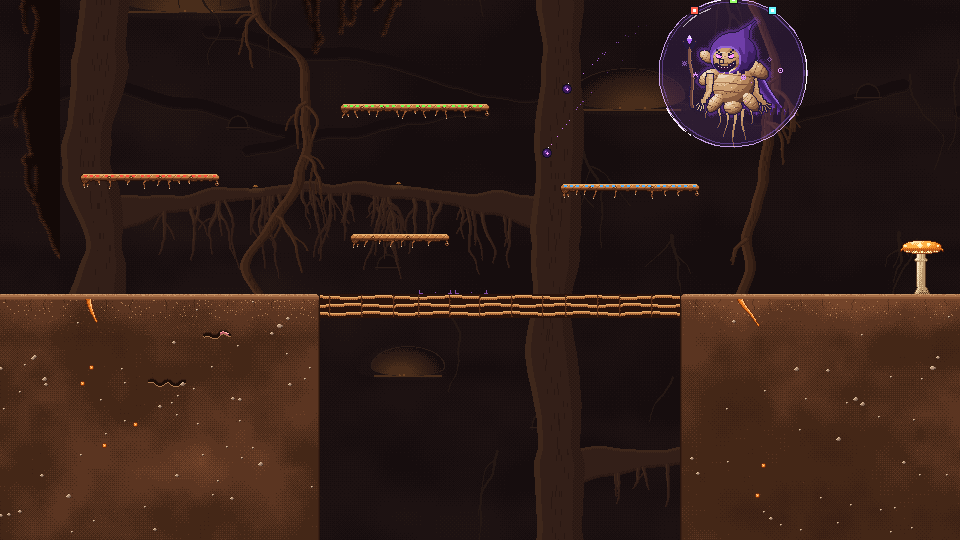
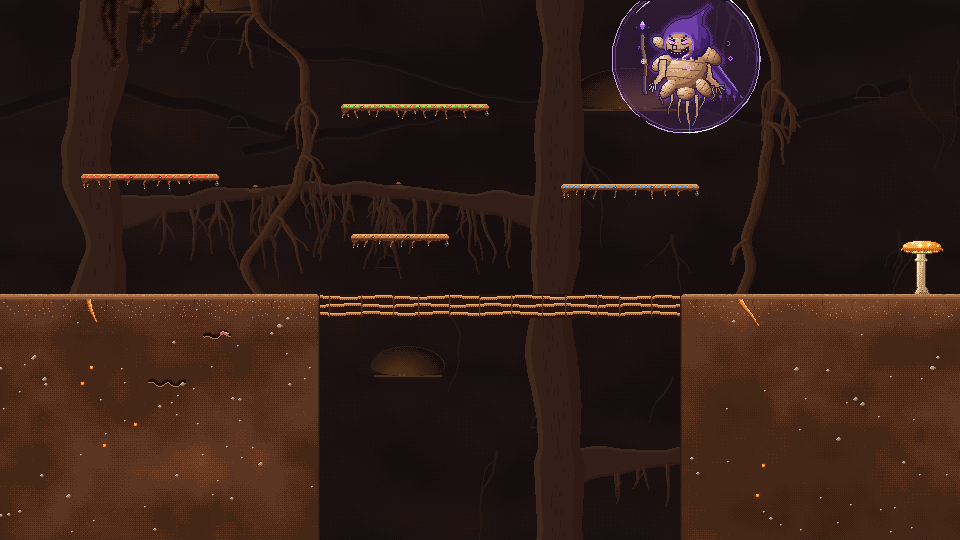
guitar-goblin: update iCarrot wiki (Merge orchestrator/wiki: publish the foreground wiki updates)

diff --git a/sections/guitar-goblin/icarrot-wiki/levels/level-parts.html b/sections/guitar-goblin/icarrot-wiki/levels/level-parts.html
@@ -74,7 +74,7 @@
 <p class="nav-extra"><a href="../tuning/index.html">Tuning files</a></p></nav>
 </aside>
 <main>
-<article><p class="crumbs"><a href="../index.html">Home</a> &rsaquo; <a href="../levels/index.html">Levels</a></p><h1>Level Parts</h1><aside class="infobox"><div class="infobox-title">Level Parts</div><dl><div><dt>Where</dt><dd><code>scripts/level_parts/</code></dd></div><div><dt>Edited in</dt><dd>The Godot 2D editor</dd></div><div><dt>Used by</dt><dd>Every level</dd></div></dl></aside><p class="lead">The building blocks every level is made of, placed and tuned in the Godot 2D editor. Ground, ledges, mushrooms, doors, pedestals, torches, camera shots, spawn markers and props.</p><nav class="toc" aria-label="Contents"><p>Contents</p><ol><li><a href="#how-levels-are-built">How levels are built</a></li><li><a href="#ground-and-platforms">Ground and platforms</a><ol><li><a href="#solid">Solid</a></li><li><a href="#plank">Plank</a></li><li><a href="#shroom">Shroom</a></li></ol></li><li><a href="#encounter-parts">Encounter parts</a><ol><li><a href="#door">Door</a></li><li><a href="#pedestal">Pedestal</a></li><li><a href="#torch">Torch</a></li></ol></li><li><a href="#camera-and-spawns">Camera and spawns</a><ol><li><a href="#camerazone">CameraZone</a></li><li><a href="#spawnpoint">SpawnPoint</a></li></ol></li><li><a href="#decoration">Decoration</a><ol><li><a href="#prop">Prop</a></li></ol></li><li><a href="#tunable-parameters">Tunable parameters</a><ol><li><a href="#solid_1">Solid</a></li><li><a href="#plank_1">Plank</a></li><li><a href="#shroom_1">Shroom</a></li><li><a href="#door_1">Door</a></li><li><a href="#pedestal_1">Pedestal</a></li><li><a href="#torch_1">Torch</a></li><li><a href="#camerazone_1">CameraZone</a></li><li><a href="#spawnpoint_1">SpawnPoint</a></li><li><a href="#prop_1">Prop</a></li></ol></li></ol></nav><h2 id="how-levels-are-built">How levels are built</h2>
+<article><p class="crumbs"><a href="../index.html">Home</a> &rsaquo; <a href="../levels/index.html">Levels</a></p><h1>Level Parts</h1><aside class="infobox"><div class="infobox-title">Level Parts</div><dl><div><dt>Where</dt><dd><code>scripts/level_parts/</code></dd></div><div><dt>Edited in</dt><dd>The Godot 2D editor</dd></div><div><dt>Used by</dt><dd>Every level</dd></div></dl></aside><p class="lead">The building blocks every level is made of, placed and tuned in the Godot 2D editor. Ground, ledges, mushrooms, doors, pedestals, torches, camera shots, spawn markers and props.</p><nav class="toc" aria-label="Contents"><p>Contents</p><ol><li><a href="#how-levels-are-built">How levels are built</a></li><li><a href="#ground-and-platforms">Ground and platforms</a><ol><li><a href="#solid">Solid</a></li><li><a href="#plank">Plank</a></li><li><a href="#shroom">Shroom</a></li></ol></li><li><a href="#encounter-parts">Encounter parts</a><ol><li><a href="#door">Door</a></li><li><a href="#pedestal">Pedestal</a></li><li><a href="#torch">Torch</a></li></ol></li><li><a href="#camera-and-spawns">Camera and spawns</a><ol><li><a href="#camerazone">CameraZone</a></li><li><a href="#spawnpoint">SpawnPoint</a></li></ol></li><li><a href="#decoration">Decoration</a><ol><li><a href="#foregroundpiece">ForegroundPiece</a></li><li><a href="#prop">Prop</a></li></ol></li><li><a href="#tunable-parameters">Tunable parameters</a><ol><li><a href="#solid_1">Solid</a></li><li><a href="#plank_1">Plank</a></li><li><a href="#shroom_1">Shroom</a></li><li><a href="#door_1">Door</a></li><li><a href="#pedestal_1">Pedestal</a></li><li><a href="#torch_1">Torch</a></li><li><a href="#camerazone_1">CameraZone</a></li><li><a href="#spawnpoint_1">SpawnPoint</a></li><li><a href="#prop_1">Prop</a></li><li><a href="#foregroundpiece_1">ForegroundPiece</a></li></ol></li></ol></nav><h2 id="how-levels-are-built">How levels are built</h2>
 <p>A level is a scene the owner edits in Godot's 2D editor, built from the parts below. Collision, the
 enemies' route map and the art all come from these parts, so moving a ledge or resizing a block
 needs no code. Every part draws its own art in code, in the game's pixel style, so it can be any
@@ -85,6 +85,7 @@ background thread, so for the first few frames of a level they can show up blank
 <li><code>Geometry/</code>: Solid, Plank, Shroom, Door and Pedestal (everything you collide with).</li>
 <li><code>Cameras/</code>: CameraZone.</li>
 <li><code>Spawns/</code>: SpawnPoint.</li>
+<li><code>Foreground/</code>: ForegroundPiece.</li>
 <li>Anywhere: Torch and Prop, which are decoration only.</li>
 </ul>
 <h2 id="ground-and-platforms">Ground and platforms</h2>
@@ -132,6 +133,13 @@ frames its own carrot, so co-op players can be in different shots. Arenas and bo
 <li><strong>PERCH:</strong> a spot on a plank where perching enemies like the asparagus land.</li>
 </ul>
 <h2 id="decoration">Decoration</h2>
+<h3 id="foregroundpiece">ForegroundPiece</h3>
+<p>A blurred silhouette in front of everything, such as roots hanging from a ceiling or the edge of a
+wall, that slides a little faster than the world as the camera moves so it reads as close to the
+camera. It sits exactly where it's placed in the editor, and in game when the camera is centred on
+it. Elsewhere it drifts <code>depth</code> times the camera's distance from it, sideways by default. Pieces hung
+from a ceiling or set against a wall keep <code>depth.y</code> at 0, so they stay attached as the camera moves
+up and down. Each machine's pieces follow its own camera, so they look right for every co-op player.</p>
 <h3 id="prop">Prop</h3>
 <p>A decoration with no collision: a giant carrot, mushrooms on a wall, a fence. It can have a glow
 layer that blooms, and it can sway in the breeze around the point it grows from.</p>
@@ -181,7 +189,12 @@ layer that blooms, and it can sway in the breeze around the point it grows from.
 <h3 id="prop_1">Prop</h3>
 <p class="params-src">Edit <code>scripts/level_parts/prop.gd</code> (script defaults; a scene or resource may override them)</p>
 
-<div class="table-wrap"><table class="param-table"><thead><tr><th>Parameter</th><th>Value</th><th>Range</th><th>What it does</th></tr></thead><tbody><tr><td><code>glow</code></td><td class="val"><code></code></td><td class="rng"></td><td>White where the prop glows (same size as <code>texture</code>); leave empty for no glow.</td></tr><tr><td><code>glow_color</code></td><td class="val"><span class="swatch" style="background:#ffd27a"></span><code>#ffd27a</code></td><td class="rng"></td><td>The glow&#x27;s tint.</td></tr><tr><td><code>glow_intensity</code></td><td class="val">1.5</td><td class="rng">0 to 4</td><td>How bright the glow is (linear; above 1 blooms).</td></tr><tr><td><code>sway</code></td><td class="val">0</td><td class="rng">0 to 0.5</td><td>How far it leans each way in the breeze (a skew, in radians; 0 = still).</td></tr><tr><td><code>sway_speed</code></td><td class="val">0.5</td><td class="rng">0.05 to 4</td><td>Sways per second.</td></tr><tr><td><code>sway_phase</code></td><td class="val">0</td><td class="rng">0 to 1</td><td>Shifts its sway in time, so neighbouring props don&#x27;t sway in step.</td></tr></tbody></table></div></article>
+<div class="table-wrap"><table class="param-table"><thead><tr><th>Parameter</th><th>Value</th><th>Range</th><th>What it does</th></tr></thead><tbody><tr><td><code>glow</code></td><td class="val"><code></code></td><td class="rng"></td><td>White where the prop glows (same size as <code>texture</code>); leave empty for no glow.</td></tr><tr><td><code>glow_color</code></td><td class="val"><span class="swatch" style="background:#ffd27a"></span><code>#ffd27a</code></td><td class="rng"></td><td>The glow&#x27;s tint.</td></tr><tr><td><code>glow_intensity</code></td><td class="val">1.5</td><td class="rng">0 to 4</td><td>How bright the glow is (linear; above 1 blooms).</td></tr><tr><td><code>sway</code></td><td class="val">0</td><td class="rng">0 to 0.5</td><td>How far it leans each way in the breeze (a skew, in radians; 0 = still).</td></tr><tr><td><code>sway_speed</code></td><td class="val">0.5</td><td class="rng">0.05 to 4</td><td>Sways per second.</td></tr><tr><td><code>sway_phase</code></td><td class="val">0</td><td class="rng">0 to 1</td><td>Shifts its sway in time, so neighbouring props don&#x27;t sway in step.</td></tr></tbody></table></div>
+
+<h3 id="foregroundpiece_1">ForegroundPiece</h3>
+<p class="params-src">Edit <code>scripts/level_parts/foreground_piece.gd</code> (script defaults; a scene or resource may override them)</p>
+
+<div class="table-wrap"><table class="param-table"><thead><tr><th>Parameter</th><th>Value</th><th>Range</th><th>What it does</th></tr></thead><tbody><tr><td><code>depth</code></td><td class="val">(0.25, 0)</td><td class="rng"></td><td>How much faster than the world it slides, per axis (0 = fixed to the world like a wall).</td></tr></tbody></table></div></article>
 <footer class="page-foot"><span id="build-stamp">Generated from the iCarrot game files.</span></footer>
 </main>
 </div>
